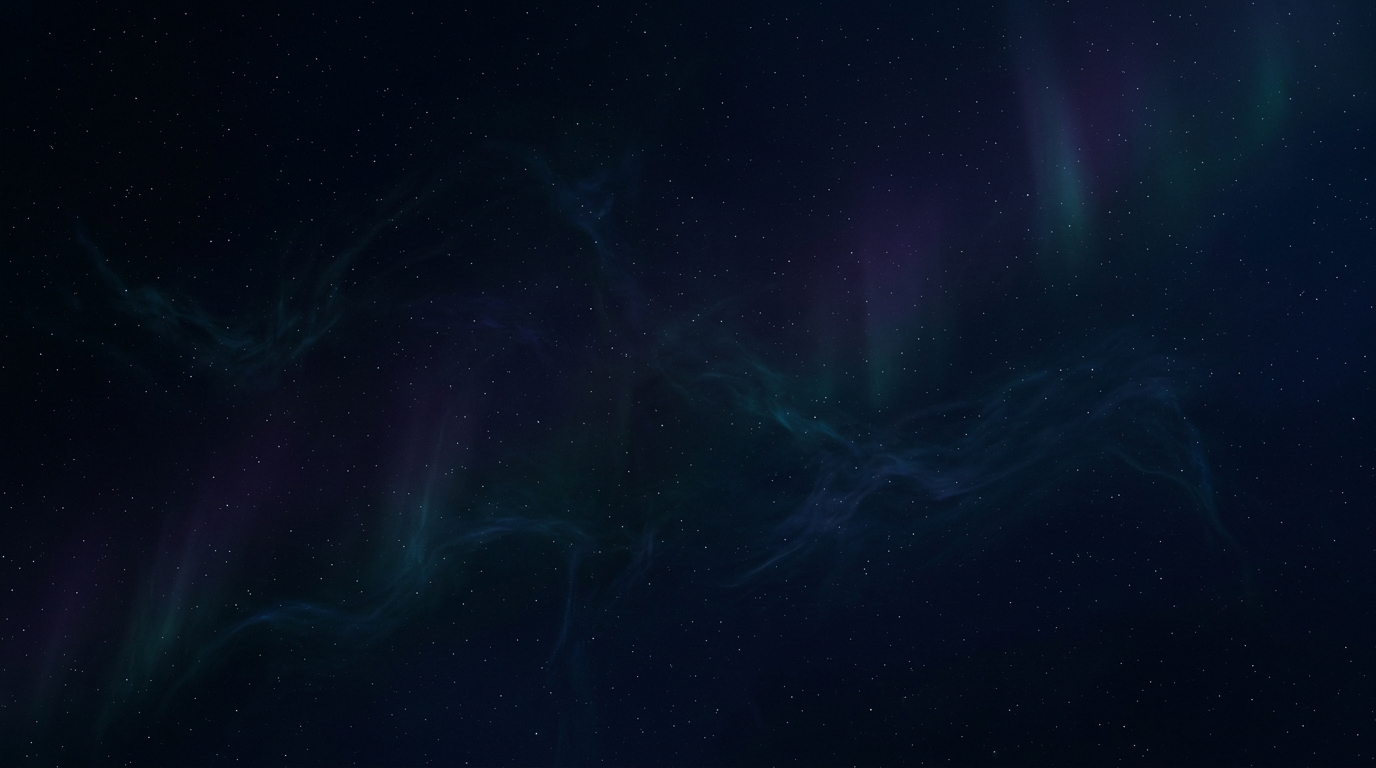
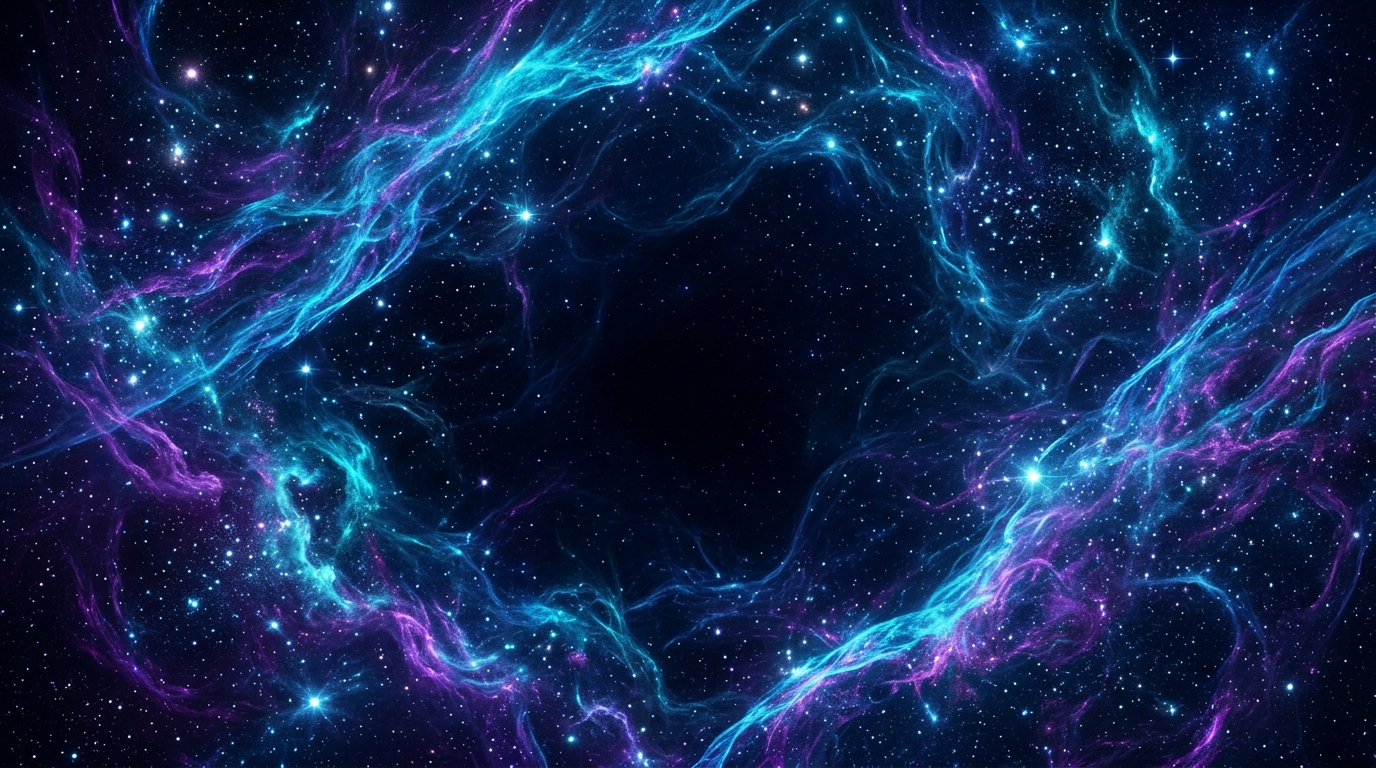
feat: generate and apply ultra-premium sci-fi nebula background for landing page

diff --git a/src/components/InteractiveSpaceBackground.tsx b/src/components/InteractiveSpaceBackground.tsx
@@ -192,7 +192,7 @@ export const InteractiveSpaceBackground: React.FC<InteractiveSpaceBackgroundProp
         style={{ 
           backgroundImage: "url('/user_custom_bg.jpg')",
           transform: `translate3d(${parallax.x * 0.35}px, ${parallax.y * 0.35}px, 0)`,
-          filter: pageState === 'LANDING' ? 'brightness(1.25) contrast(1.2) saturate(1.3)' : 'none'
+          filter: 'none'
         }}
         initial={false}
         animate={{ 
